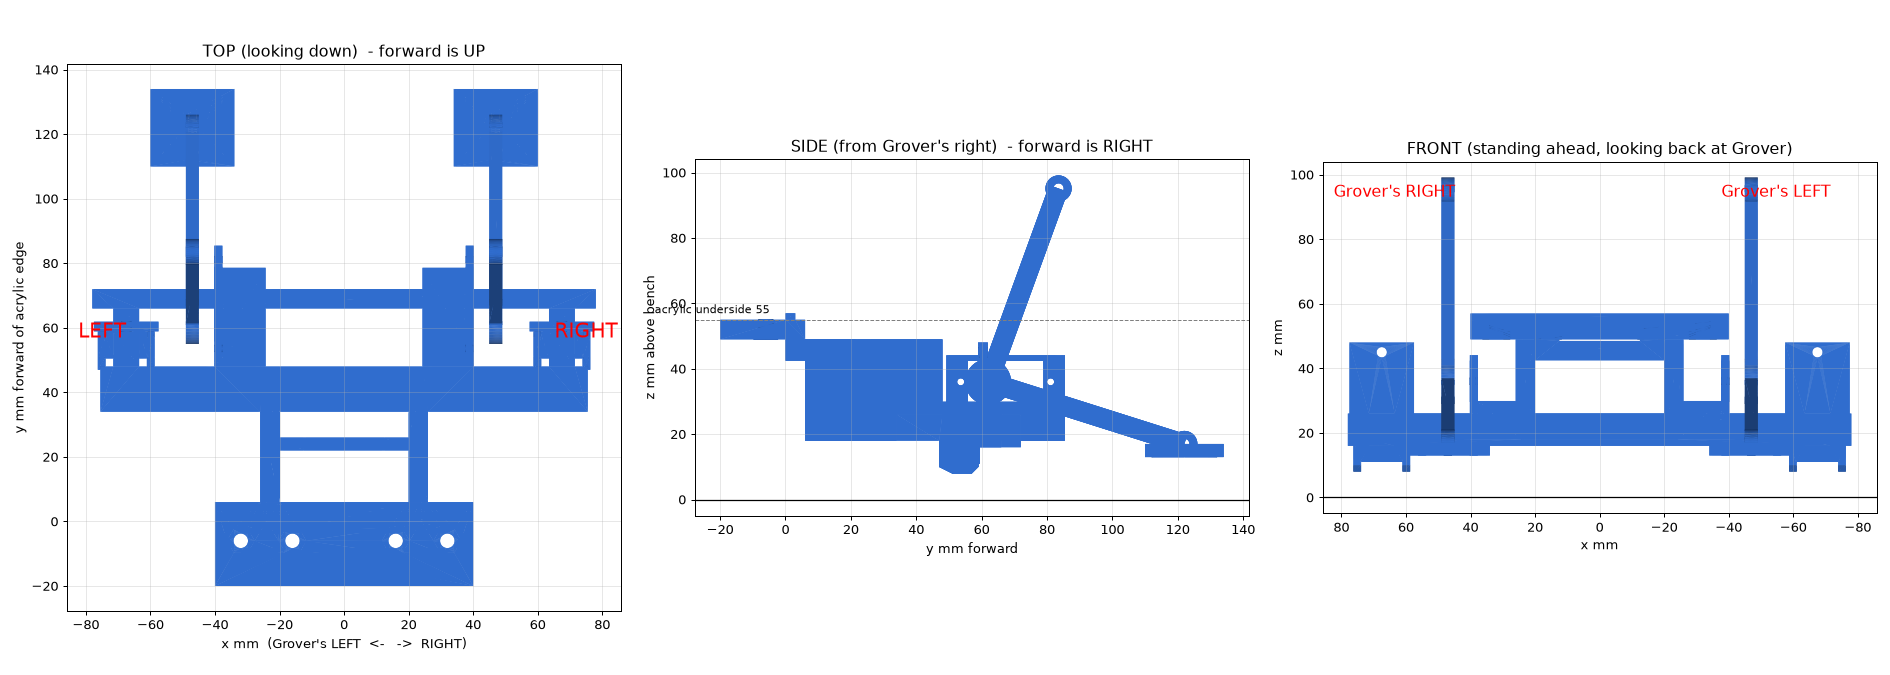
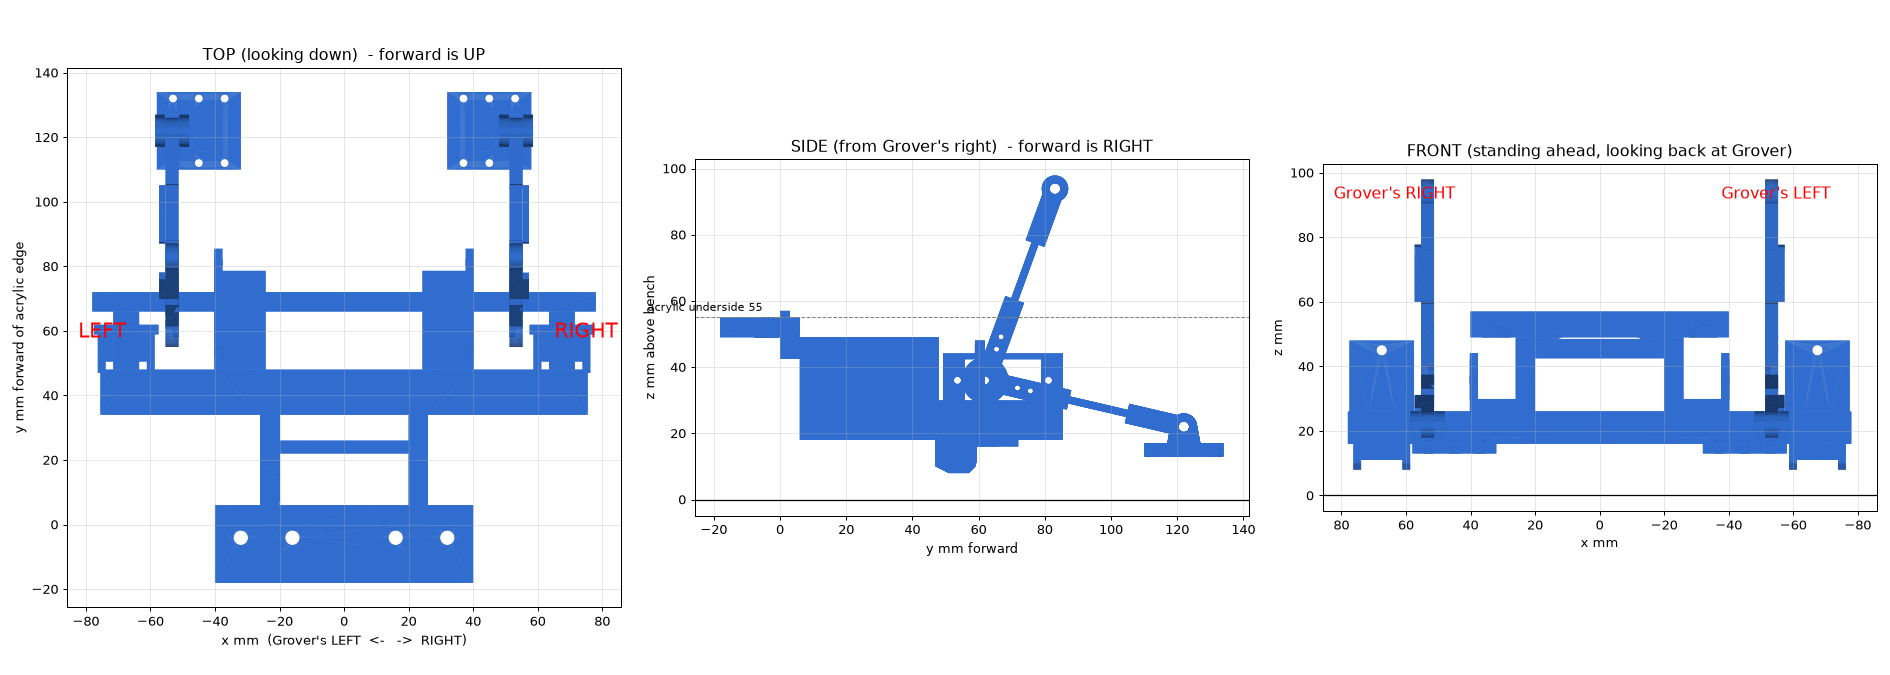
hardware: nose module - hole row measured, arm horn pocket/leaf spring/pad hinge, assembly drawing with sensors and wiring

diff --git a/scripts/nose_assembly_views.py b/scripts/nose_assembly_views.py
@@ -1,0 +1,94 @@
+"""Assembly drawing of the nose module with its sensors, servos and wiring (2026-11-07).
+
+Headless OpenSCAD can't render PNGs here, so this exports one STL per item
+(hardware/nose-module.scad's `asm_*` parts), colours them and draws an
+isometric view plus top and side views with a painter's sort in matplotlib.
+
+    uv run --with numpy-stl --with matplotlib python scripts/nose_assembly_views.py OUT.png
+"""
+import os
+import subprocess
+import sys
+import tempfile
+
+import matplotlib
+import numpy as np
+from stl import mesh
+
+matplotlib.use("Agg")
+import matplotlib.pyplot as plt  # noqa: E402
+from matplotlib.collections import PolyCollection  # noqa: E402
+from matplotlib.patches import Patch  # noqa: E402
+
+ROOT = os.path.dirname(os.path.dirname(os.path.abspath(__file__)))
+SCAD = os.path.join(ROOT, "hardware", "nose-module.scad")
+OPENSCAD = os.environ.get("OPENSCAD", os.path.expanduser("~/.local/bin/openscad"))
+
+ITEMS = [  # part, colour, legend
+    ("body", (0.25, 0.45, 0.85), "nose module (printed, blue PETG)"),
+    ("asm_arms", (0.45, 0.65, 0.95), "contact arms + pads (printed)"),
+    ("asm_tfmini", (0.15, 0.15, 0.15), "TFMini"),
+    ("asm_cliff", (0.1, 0.55, 0.25), "cliff FL / FR (TCRT5000 on HW-870)"),
+    ("asm_servo", (0.35, 0.35, 0.40), "SG90 servos"),
+    ("asm_w_tfmini", (0.95, 0.75, 0.1), "TFMini lead (4 wire, to spine deck)"),
+    ("asm_w_cliff", (0.6, 0.2, 0.8), "cliff leads (3 wire each: 5 V, GND, DO)"),
+    ("asm_w_servo", (0.95, 0.45, 0.1), "servo leads (3 wire each: 5 V, GND, signal)"),
+    ("asm_w_pad", (0.85, 0.1, 0.1), "pad leads (to the 12 V bus / GND, like the pad bars)"),
+]
+
+
+def load(tmp):
+    out = []
+    for part, col, label in ITEMS:
+        f = os.path.join(tmp, part + ".stl")
+        subprocess.run([OPENSCAD, "-D", f'part="{part}"', "-o", f, SCAD], check=True, capture_output=True)
+        out.append((mesh.Mesh.from_file(f), np.array(col), label))
+    return out
+
+
+def draw(ax, meshes, R, title, light=np.array([0.3, -0.5, 0.8])):
+    """R: 3x3, rows = screen x, screen y, depth (toward the viewer)."""
+    polys, cols, depth = [], [], []
+    light = light / np.linalg.norm(light)
+    for m, col, _ in meshes:
+        v = m.vectors @ R.T
+        n = m.normals / (np.linalg.norm(m.normals, axis=1, keepdims=True) + 1e-9)
+        shade = 0.45 + 0.55 * np.abs(n @ light)
+        polys.append(v[:, :, :2]); depth.append(v[:, :, 2].mean(1))
+        cols.append(np.clip(col[None, :] * shade[:, None], 0, 1))
+    polys, cols, depth = np.concatenate(polys), np.concatenate(cols), np.concatenate(depth)
+    o = np.argsort(depth)
+    ax.add_collection(PolyCollection(polys[o], facecolors=cols[o], edgecolors="none"))
+    ax.autoscale(); ax.set_aspect("equal"); ax.set_title(title, fontsize=13)
+
+
+def main():
+    out = sys.argv[1] if len(sys.argv) > 1 else "nose-module-assembly.png"
+    with tempfile.TemporaryDirectory() as tmp:
+        meshes = load(tmp)
+    fig = plt.figure(figsize=(22, 13))
+    gs = fig.add_gridspec(2, 2, height_ratios=[1.25, 1])
+    # isometric: from ahead, Grover's right and above
+    az, el = np.radians(35), np.radians(28)
+    # viewer direction d (from object toward eye): ahead (+y), right (+x), up
+    d = np.array([np.sin(az) * np.cos(el), np.cos(az) * np.cos(el), np.sin(el)])
+    sx = np.cross([0, 0, 1], d); sx /= np.linalg.norm(sx)
+    sy = np.cross(d, sx)
+    a0 = fig.add_subplot(gs[0, :]); draw(a0, meshes, np.array([sx, sy, d]),
+                                         "ISOMETRIC - from ahead of Grover, his RIGHT side nearest, arms lowered onto the rollers")
+    a0.axis("off")
+    fig.legend(handles=[Patch(color=c, label=l) for _, c, l in ITEMS], loc="upper left", bbox_to_anchor=(0.02, 0.97), fontsize=12)
+    a1 = fig.add_subplot(gs[1, 0]); draw(a1, meshes, np.array([[1, 0, 0], [0, 1, 0], [0, 0, 1.0]]),
+                                         "TOP (forward is UP; Grover's LEFT on the left)")
+    a1.set_xlabel("x mm (Grover's LEFT <-  -> RIGHT)"); a1.set_ylabel("y mm ahead of the acrylic edge"); a1.grid(alpha=.3)
+    a2 = fig.add_subplot(gs[1, 1]); draw(a2, meshes, np.array([[0, 1, 0], [0, 0, 1], [1, 0, 0.0]]),
+                                         "SIDE (from Grover's RIGHT; forward is RIGHT)")
+    a2.axhline(0, color="k", lw=1); a2.axhline(55, color="gray", ls="--", lw=.8)
+    a2.text(-20, 57, "acrylic underside 55", fontsize=9)
+    a2.set_xlabel("y mm forward"); a2.set_ylabel("z mm above the bench"); a2.grid(alpha=.3)
+    plt.tight_layout(); plt.savefig(out, dpi=80)
+    print("wrote", out)
+
+
+if __name__ == "__main__":
+    main()

diff --git a/hardware/README.md b/hardware/README.md
@@ -26,6 +26,7 @@ except for the one `apt-get` line noted at the top of that script).
 | `battery-cradle.scad` | **v3 (tank, 2026-10-19):** cradle for the 3x18650 holder with the HW-288 BMS flush at one end of its back (61 x 79 x ~23). Sits on the four 30 mm posts (96 x 64 centres, +/-2 mm slots) with the pocket shifted **40 mm rearward** to put the pack on the track midpoint: rear bolt heads sunk under the holder's floor, front bolts in the floor-level front tab, which is also the camera perch (5x2 M4 grid + cable drop). BMS at the front end, its window open to the deck below for the leads. Cells up, zip-tie slots, 2 mm end clearance for the balance-lead wraps. Prints floor down, no supports. | Posts and holder measured by Enoch 10-18/19. **Printed 2026-10-19** (job `5fa9f793b0`, 2h 19m, 57 g PETG). Enoch's test fit with the holder: "will likely work". **Bolted on 2026-10-22**, pack in; the assumed body_h / bms_h (17 / 6) were close enough that nothing needed rework. |
 | `marker-cap.scad` | Lid for Grover's top marker: 78 mm square plate with the 60 mm ArUco id 2 (72 mm paper square, FRONT to the nose) in a 0.6 mm recess, two 1.6 mm skirts gripping the outside of the battery cradle's long walls (inner 67.0 over the cradle's 66.6), 56 mm long so both pocket ends stay open, zip-tie notches. Lid 3 mm above the wall tops (cells assumed <= 3 mm proud). Prints top face down, no supports. | Designed 2026-10-24 after the taped sheet curled during pivots and the overhead lost Grover. Enoch: "looks OK". Print-warden job `ed36e13f16` (41 min, 18 g PETG), **started 2026-10-24** ("start it"). |
 | `dock-pad-plate.scad` | Dock contact carrier: 31 x 14 x 4 mm plate that bolts under the deck through any grid hole 10-22 mm from a dock roller (hex nut pocket), with a radial slot for the contact bolt (M4 x 50, head down, fender washer as the pad face, nuts set the height - pad face 46 mm below the deck). Rotate about the deck bolt + slide = reaches any point in that ring. One print x2. | Designed 2026-10-24 (the rollers sit under the deck grid but not under a free hole). Print-warden job `cfe0f0d26c` (11 min, 3 g PETG), **started 2026-10-24** ("start it"). Enoch suspects a wing on the cliff mount will end up better; this is the cheap first fit. |
+| `nose-module.scad` | **Nose module v1 (DRAFT 2026-11-07, not sliced):** one part replacing the TFMini bracket, both front cliff mounts and the pad plates/bars. Foot under the acrylic on front-row holes 1/3/7/9 (x +/-16, +/-32; centres ~4 mm behind the edge) with a lip in front of the edge; TFMini by its M2 ears, lens 53 mm up, face 42 mm ahead; TCRT5000 bodies socketed, faces 11 mm up, skids to 8 mm; bumper 66-72 mm ahead; two SG90/S51 servos on the bumper swinging 62 mm arms (horn pocket, leaf spring, M3 hinge) that set 26 x 24 mm pads with three fore-aft 12 AWG runs onto the dock rollers 50 mm past the base tip. Views: `nose-module-views.png`; assembly with sensors and leads: `nose-module-assembly.png` (`scripts/nose_assembly_views.py`). | Awaiting Enoch's review. Horn pocket sized for a typical SG90 single-arm horn - check against the bag. Print orientation TBD. |
 | `dock-pad-bar.scad` | Dock contact bar, hangs on the pad plate's M4 and lies ACROSS a dock roller: 32 x 12 x 5 mm, bolt up from below with its head pocketed flush. **v2:** the contact is a staple of bare 12 AWG solid copper (Romex ground) in a 1 mm groove along the underside (stands 1 mm proud), legs up through 3 mm holes at +/-13 mm and along a top groove to the bolt, wrapped round the shank under the nut - the bolt carries the current to the ring terminal. ~80 mm of wire per bar. One print x2, no supports. | v1 (copper tape over the face) designed 2026-10-24, never printed: Enoch has no copper tape, uses Romex. v2 designed 2026-10-25. Print-warden job `c36cb73e52` (12 min, 3 g PETG, 2 copies) queued 2026-10-25: the warden offers it once Enoch clears the bed. |
 | `caster-skid.scad` | Fixed domed PETG skid replacing the swivel caster (which twisted the rear on stops). 22 mm puck, 36 mm tall (bracket underside to bench), M5 bolt down through the block into a captive nut slid in from the side. Round, so the single bolt can't steer it. | Printed and fitted 2026-10-18; its aluminium bracket sheared in the fall the same day and the skid was lost. Superseded by the tank rebuild. |
 

diff --git a/JOURNAL.md b/JOURNAL.md
@@ -641,8 +641,19 @@ distance, spacing, chamfer size.
   board, and the leads bend) - so the ramp math (which used 12) left only
   ~1-2 mm, hence the scraping. The module holds each sensor body in a
   printed socket at ~11 mm (parameter; verify reads on bench, white base,
-  dark), skids at ~8 mm. Still needed:
-  roller spring force (sizes the arm / toggle) and the TFMini's position.
+  dark), skids at ~8 mm. Enoch: spring force "not too worried"; TFMini
+  stays at 42 mm ahead / 53 mm up; front hole row's nearest edge 2 mm
+  behind the acrylic's edge (centres ~4 mm). **Nose module v1 drafted**
+  (`hardware/nose-module.scad`, not sliced): foot on holes 1/3/7/9 with a
+  lip, TFMini plate, socketed cliffs with skids, bumper at 66-72 mm, two
+  SG90s (Enoch's are Smraza S51 9 g) lying on the bumper, shafts outboard,
+  62 mm arms with a horn pocket, a thin leaf section as the spring and a
+  free M3 hinge so each 26 x 24 mm pad sits flat; three fore-aft 12 AWG
+  runs 8 mm apart per pad. Review views (`nose-module-views.png`) and an
+  assembly drawing with sensors, servos and leads
+  (`nose-module-assembly.png`, `scripts/nose_assembly_views.py`) - the
+  first draft's servo mounts weren't mirror images and the render caught
+  it; now one side is modelled and mirrored. Awaiting Enoch's review.
 
 **Claude-driven:** the S3 pin map and port; dock sense design and values;
 dock mode and its limits; `dock()`'s undock, climb, square-up and centring;
